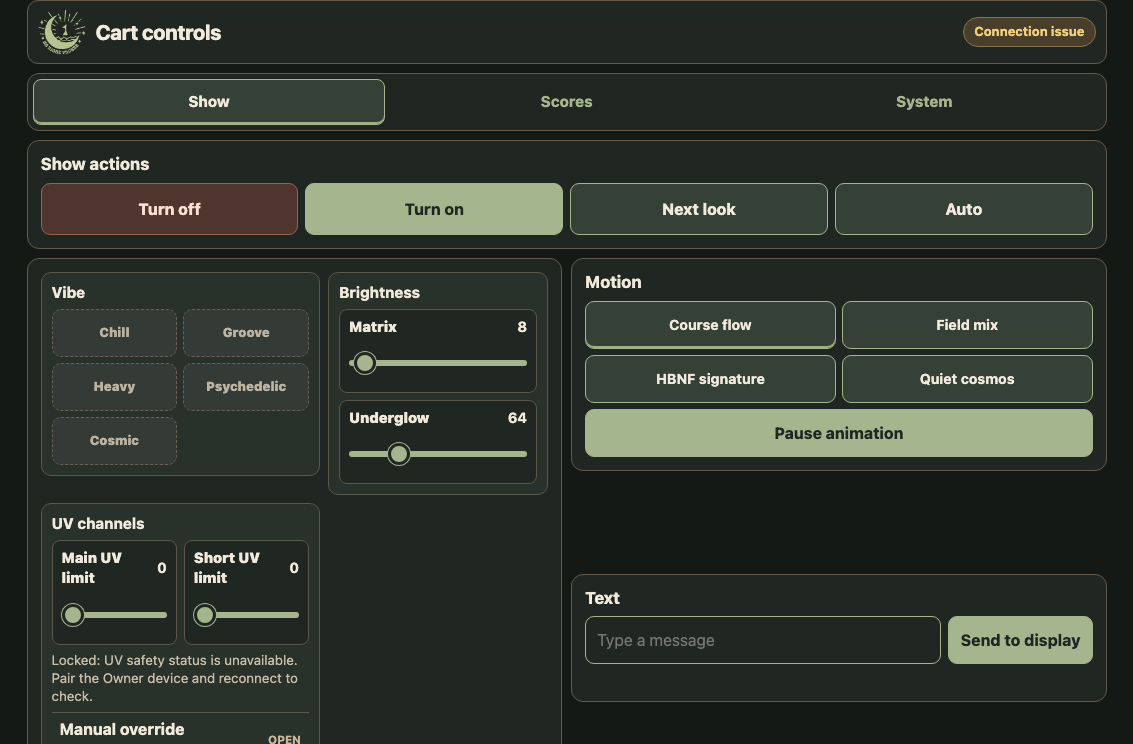
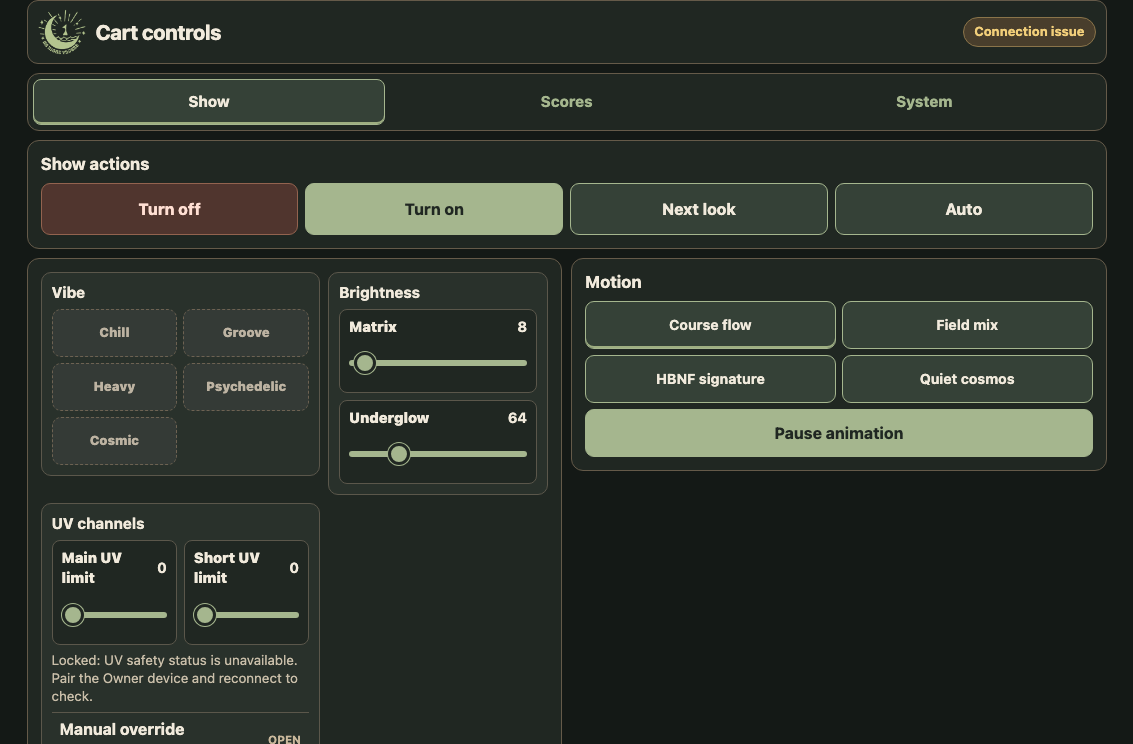
Keep Cart landscape layout while adding UV controls

Changed region(s): [[0.8341, 0.8038, 0.9885, 0.8965], [0.5252, 0.7728, 0.6178, 0.8965]]

diff --git a/hbnf-final-controller/hbnf-cart-ui-v6.css b/hbnf-final-controller/hbnf-cart-ui-v6.css
@@ -170,7 +170,7 @@ input[type=range]::-moz-range-thumb{width:16px;height:16px;border:3px solid var(
   .score-grid .wide,.fine-grid .wide{grid-column:auto}
 }
 @media(min-width:900px) and (min-height:680px) and (orientation:landscape){
-  #ownerViewShow{grid-template-columns:repeat(2,minmax(0,1fr));grid-template-areas:"actions actions" "lights motion" "lights text";align-items:start;gap:9px}
+  #ownerViewShow{grid-template-columns:repeat(2,minmax(0,1fr));grid-template-areas:"actions actions" "lights motion" "text text";align-items:start;gap:9px}
   #ownerViewShow>.show-device-actions{grid-area:actions}
   #ownerViewShow>#lightsPanel{grid-area:lights;grid-template-columns:minmax(0,1.15fr) minmax(220px,.85fr);align-items:start;gap:8px}
   #ownerViewShow>#showStylePanel{grid-area:motion}
